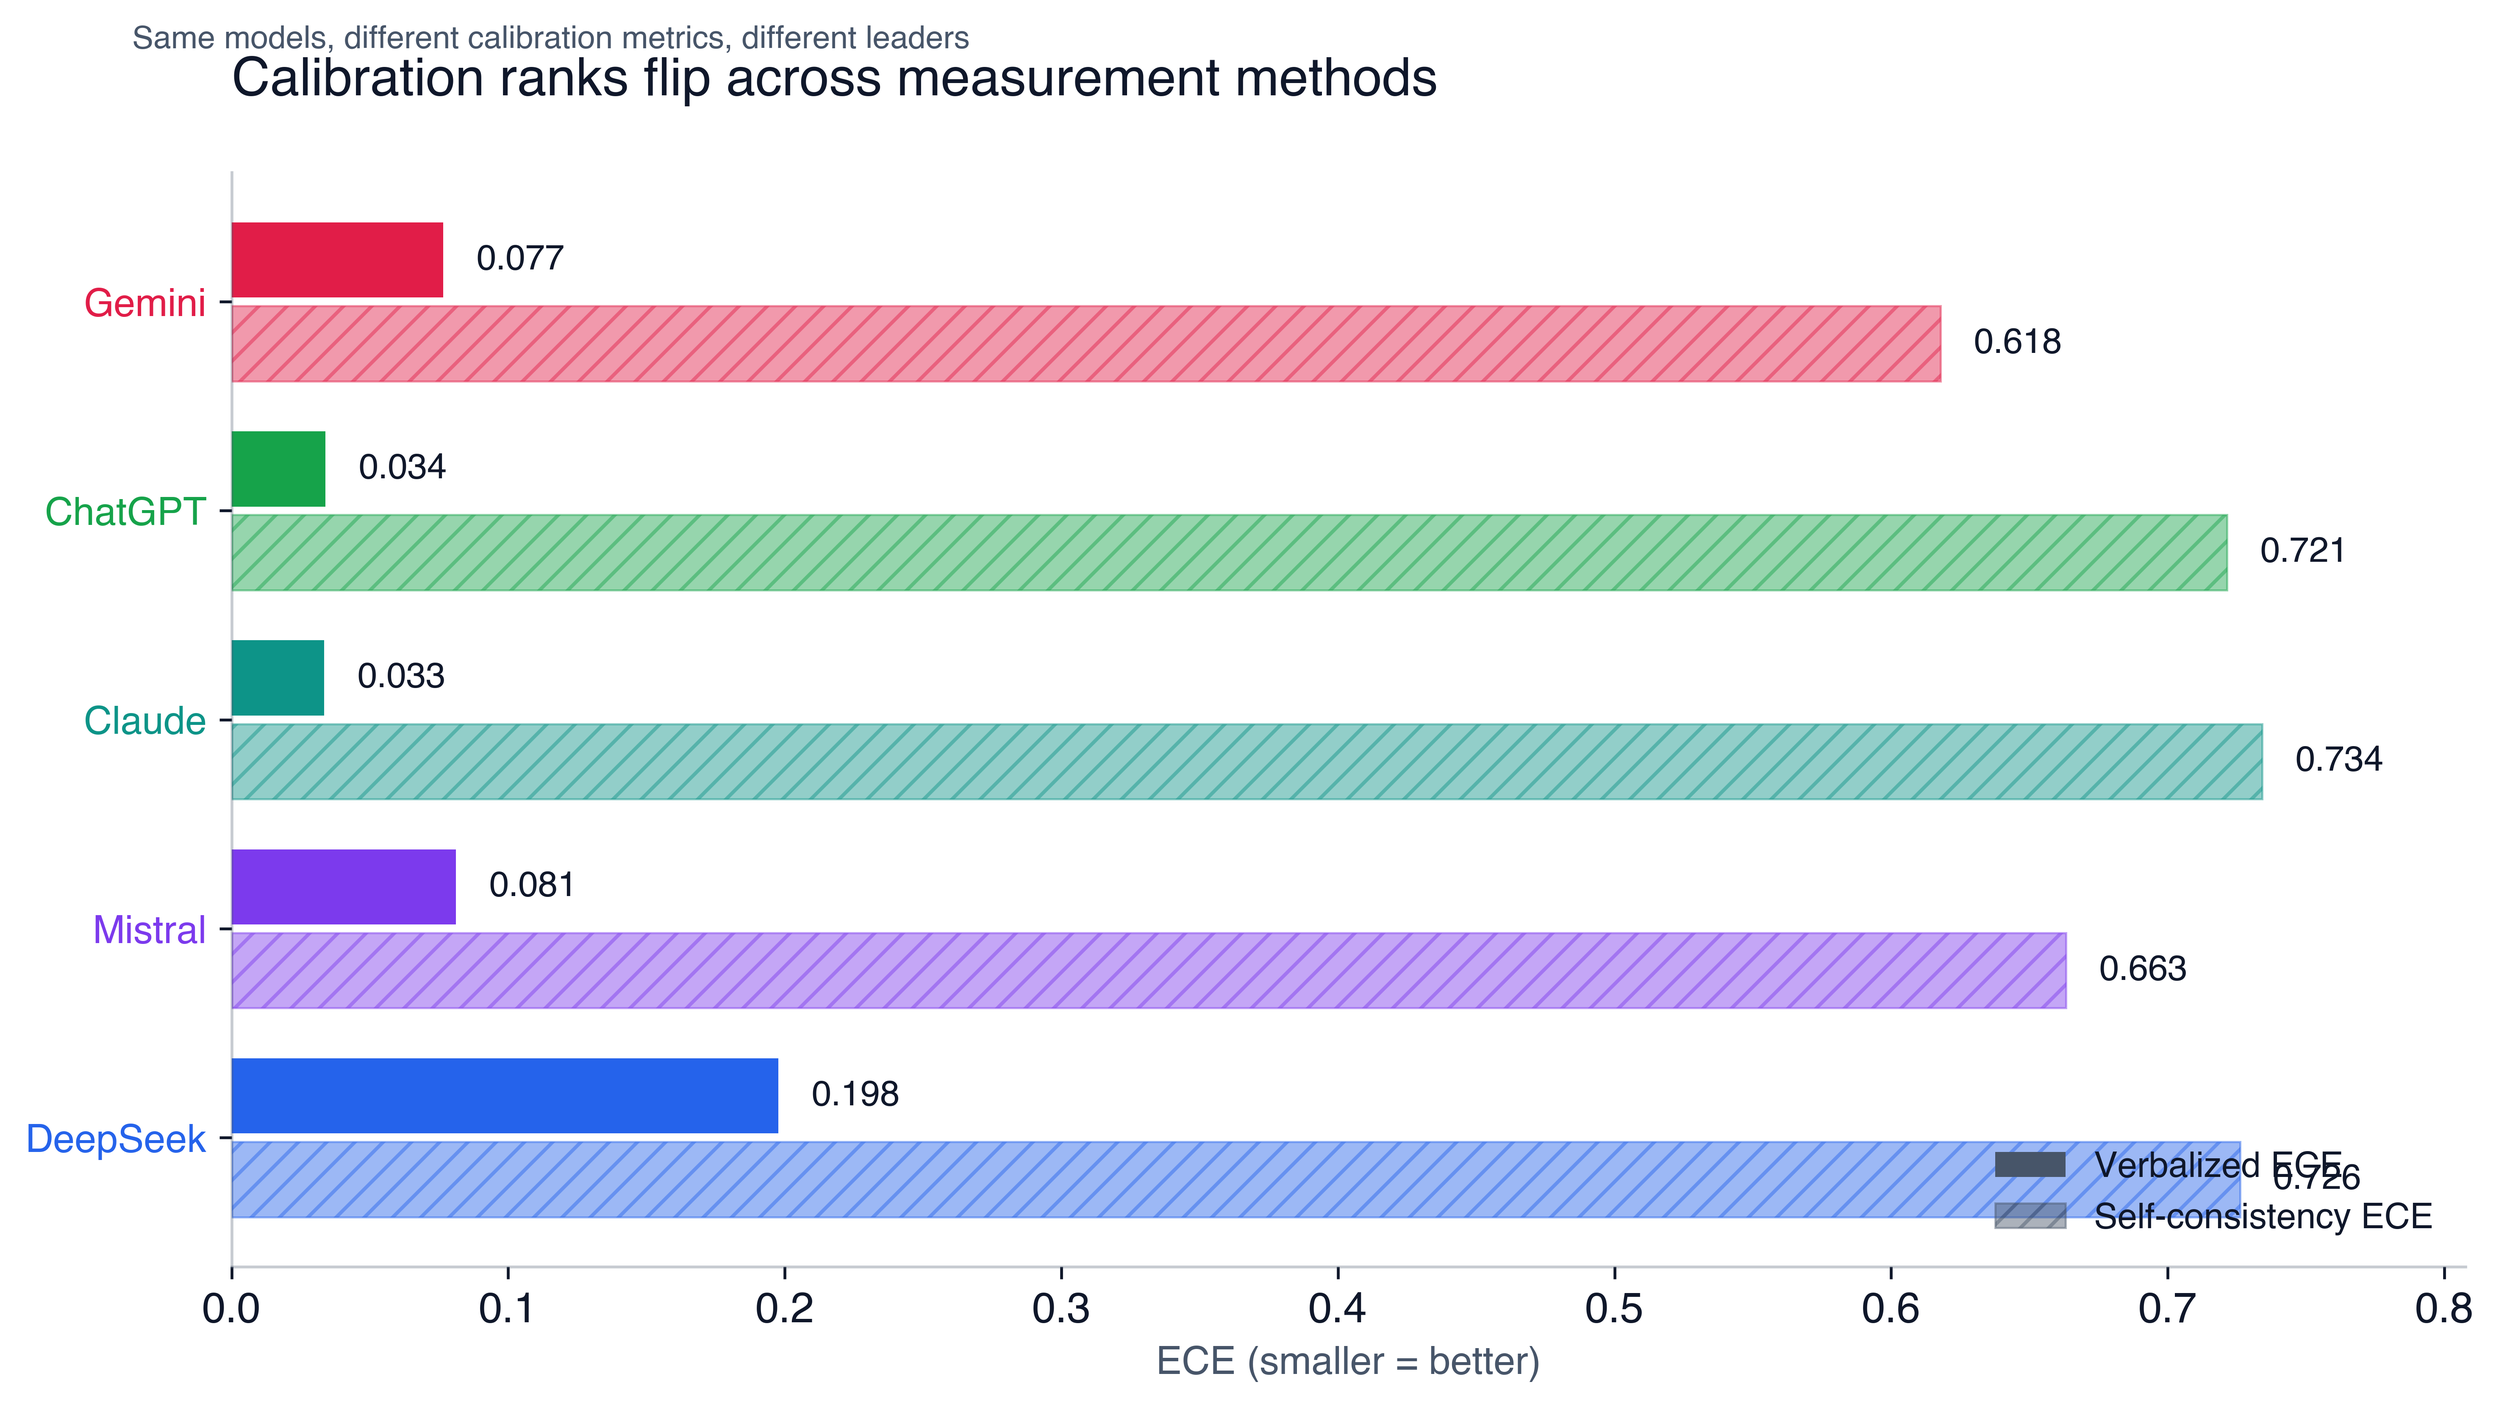
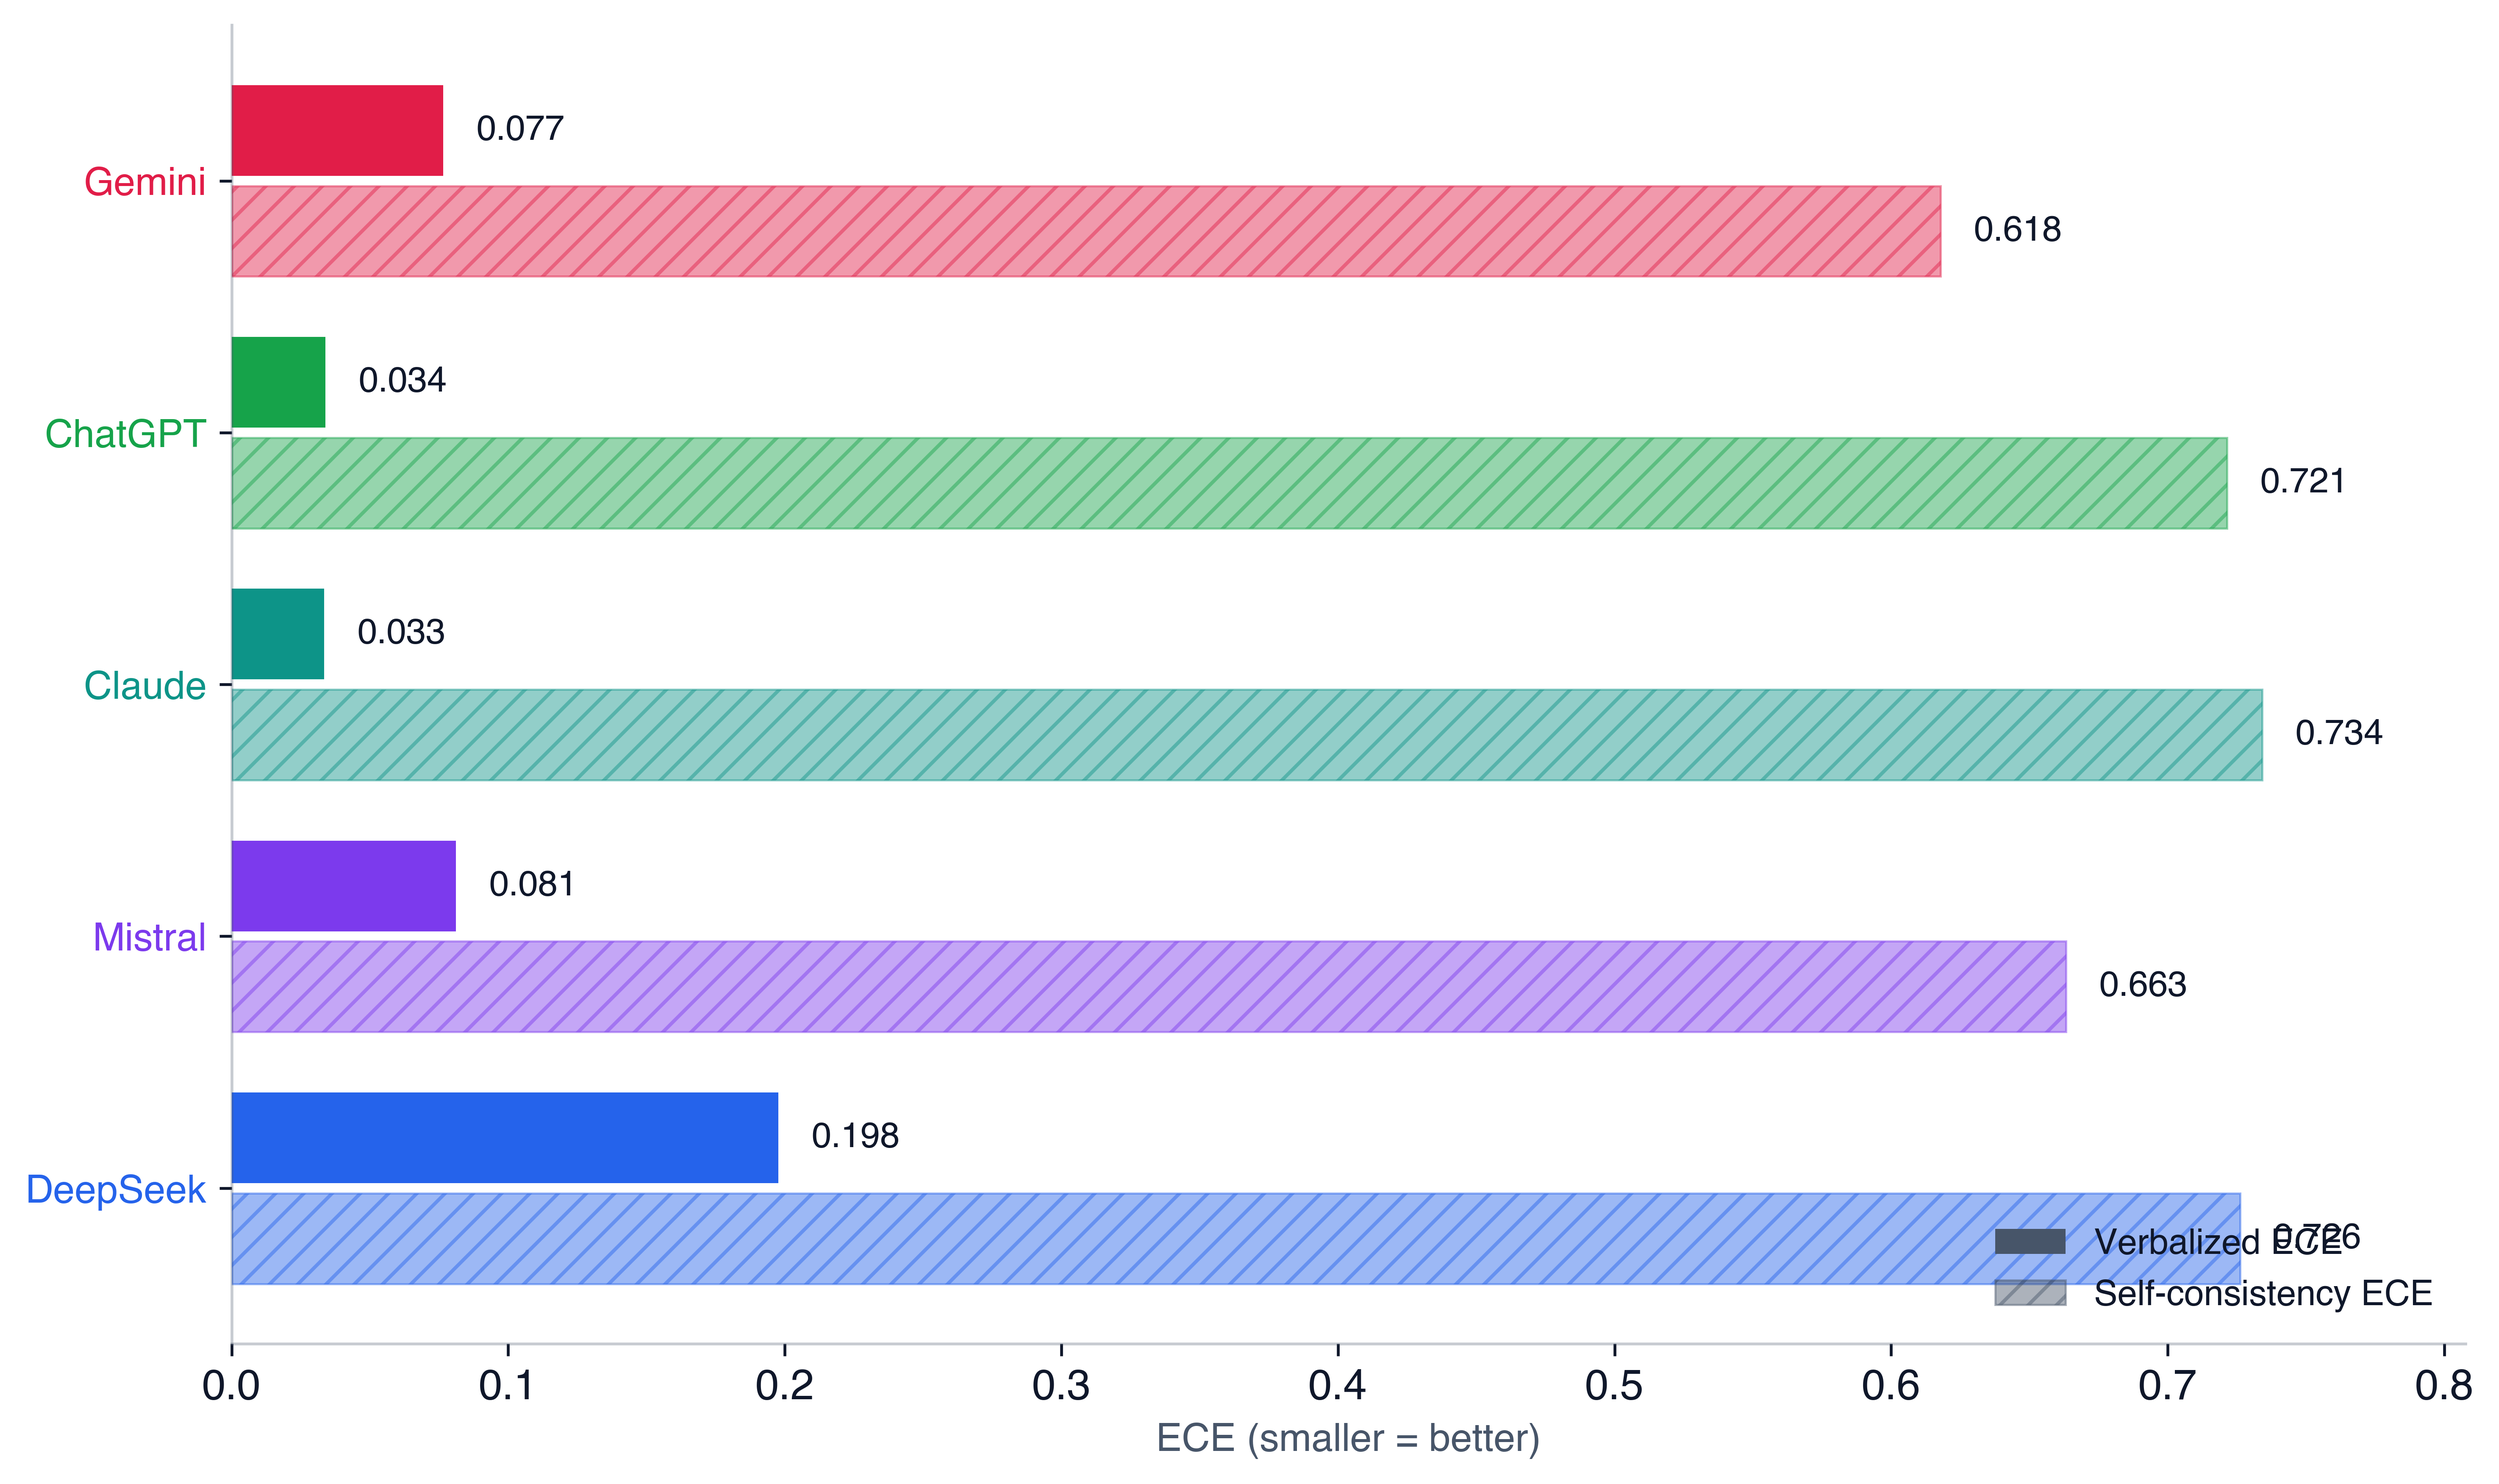
poster: strip header from calibration_ece_paired
Drop title + italic subtitle; header copy lives in poster body.

diff --git a/poster/scripts/calibration_ece_paired_print.py b/poster/scripts/calibration_ece_paired_print.py
@@ -110,14 +110,6 @@ def main():
     ax.set_xlabel("ECE (smaller = better)",
                   fontsize=11, color=PRINT_FG_MUTED)
 
-    ax.set_title("Calibration ranks flip across measurement methods",
-                 fontsize=15, fontweight="bold", color=PRINT_FG,
-                 pad=22, loc="left")
-    fig.text(0.06, 0.91,
-             "Same models, different calibration metrics, different leaders",
-             ha="left", va="center",
-             fontsize=9, color=PRINT_FG_MUTED, style="italic")
-
     # Legend
     from matplotlib.patches import Patch
     legend_handles = [
@@ -138,7 +130,7 @@ def main():
     dim_remaining_spines(ax)
     ax.set_axisbelow(True)
 
-    fig.tight_layout(rect=(0, 0, 1, 0.93))
+    fig.tight_layout()
     dual_save(fig, "calibration_ece_paired", out_dir=str(OUT_DIR))
     plt.close(fig)
 
